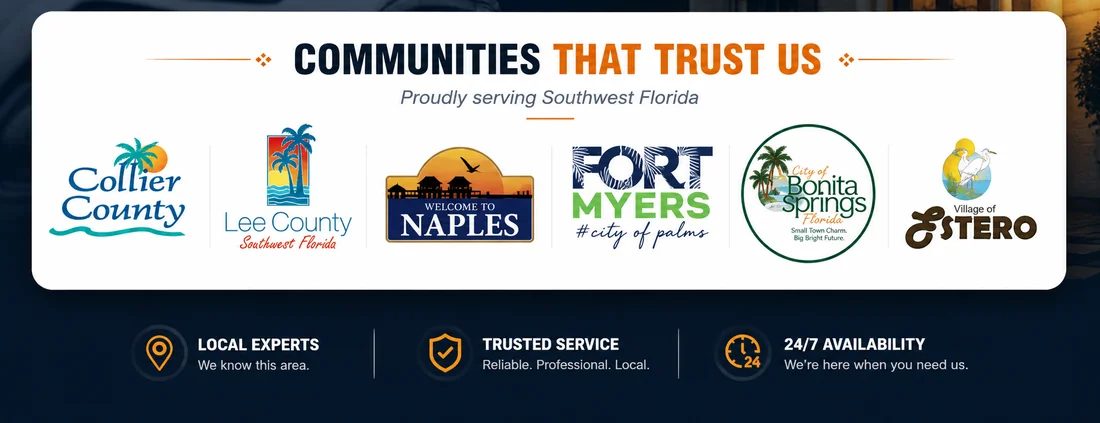
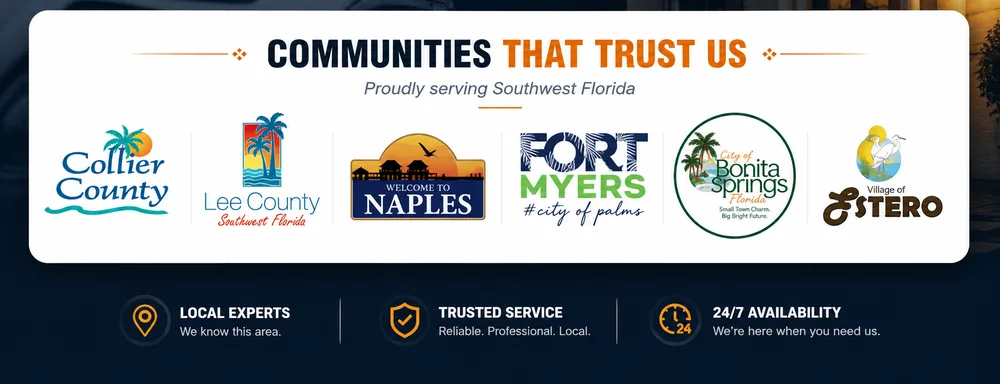
Refine hero framing and trust-strip scale
Keep the trust strip intentional without dominating the hero, and
frame more of the hero collage on desktop and mobile.

diff --git a/style.css b/style.css
@@ -253,8 +253,8 @@ h3 { font-size: clamp(1.25rem, 2vw, 1.5rem); }
   grid-template-rows: auto 1fr auto;
   align-items: center;
   justify-items: stretch;
-  min-height: clamp(560px, 78svh, 760px);
-  padding: calc(var(--header-h) + 0.35rem) 0 0;
+  min-height: clamp(520px, 74svh, 700px);
+  padding: calc(var(--header-h) + 0.25rem) 0 0;
   color: #fff;
   overflow: hidden;
 }
@@ -266,24 +266,24 @@ h3 { font-size: clamp(1.25rem, 2vw, 1.5rem); }
   width: 100%;
   height: 100%;
   object-fit: cover;
-  object-position: center 42%;
+  object-position: center 28%;
 }
 .home-hero-veil {
   position: absolute;
   inset: 0;
   background:
-    linear-gradient(180deg, rgba(4, 13, 26, 0.55) 0%, rgba(4, 13, 26, 0.42) 28%, rgba(4, 13, 26, 0.62) 62%, rgba(4, 13, 26, 0.9) 100%),
-    linear-gradient(105deg, rgba(4, 13, 26, 0.55) 0%, rgba(4, 13, 26, 0.2) 50%, rgba(4, 13, 26, 0.45) 100%);
+    linear-gradient(180deg, rgba(4, 13, 26, 0.48) 0%, rgba(4, 13, 26, 0.38) 26%, rgba(4, 13, 26, 0.58) 58%, rgba(4, 13, 26, 0.9) 100%),
+    linear-gradient(105deg, rgba(4, 13, 26, 0.45) 0%, rgba(4, 13, 26, 0.18) 50%, rgba(4, 13, 26, 0.4) 100%);
   pointer-events: none;
 }
 
 .hero-trust-float {
   position: relative;
   z-index: 3;
-  width: min(940px, 92%);
-  margin: 0.15rem auto 0.35rem;
-  border-radius: 12px;
-  box-shadow: 0 16px 40px rgba(0, 0, 0, 0.38);
+  width: min(760px, 86%);
+  margin: 0.1rem auto 0.15rem;
+  border-radius: 10px;
+  box-shadow: 0 14px 34px rgba(0, 0, 0, 0.36);
   overflow: hidden;
   background: transparent;
 }
@@ -296,15 +296,15 @@ h3 { font-size: clamp(1.25rem, 2vw, 1.5rem); }
 .home-hero-content {
   position: relative;
   z-index: 2;
-  width: min(820px, 92%);
-  margin: 0.75rem auto 1.25rem;
+  width: min(780px, 92%);
+  margin: 0.55rem auto 1.1rem;
   text-align: center;
   justify-self: center;
   animation: riseIn 0.7s var(--ease) both;
 }
 .home-hero h1 {
-  margin-bottom: 0.65rem;
-  font-size: clamp(3rem, 8.2vw, 5.6rem);
+  margin-bottom: 0.55rem;
+  font-size: clamp(3rem, 8.2vw, 5.5rem);
   line-height: 0.94;
   text-shadow: 0 10px 32px rgba(0, 0, 0, 0.4);
 }
@@ -1146,23 +1146,24 @@ h3 { font-size: clamp(1.25rem, 2vw, 1.5rem); }
     grid-template-rows: auto auto auto;
   }
   .home-hero-media img {
-    object-position: center 38%;
+    object-position: center 22%;
   }
   .home-hero-veil {
     background:
-      linear-gradient(180deg, rgba(4, 13, 26, 0.58) 0%, rgba(4, 13, 26, 0.5) 35%, rgba(4, 13, 26, 0.88) 100%);
+      linear-gradient(180deg, rgba(4, 13, 26, 0.55) 0%, rgba(4, 13, 26, 0.48) 34%, rgba(4, 13, 26, 0.9) 100%);
   }
   .hero-trust-float {
-    width: min(100%, 94%);
-    margin-top: 0.2rem;
-    border-radius: 10px;
+    width: min(100%, 92%);
+    margin-top: 0.15rem;
+    border-radius: 8px;
+    box-shadow: 0 10px 26px rgba(0, 0, 0, 0.32);
   }
   .home-hero-content {
-    margin: 0.85rem auto 1rem;
+    margin: 0.7rem auto 0.9rem;
     width: min(100%, 92%);
   }
   .home-hero h1 {
-    font-size: clamp(2.55rem, 11vw, 3.4rem);
+    font-size: clamp(2.45rem, 10.5vw, 3.2rem);
   }
   .hero-cta-row {
     flex-direction: column;
